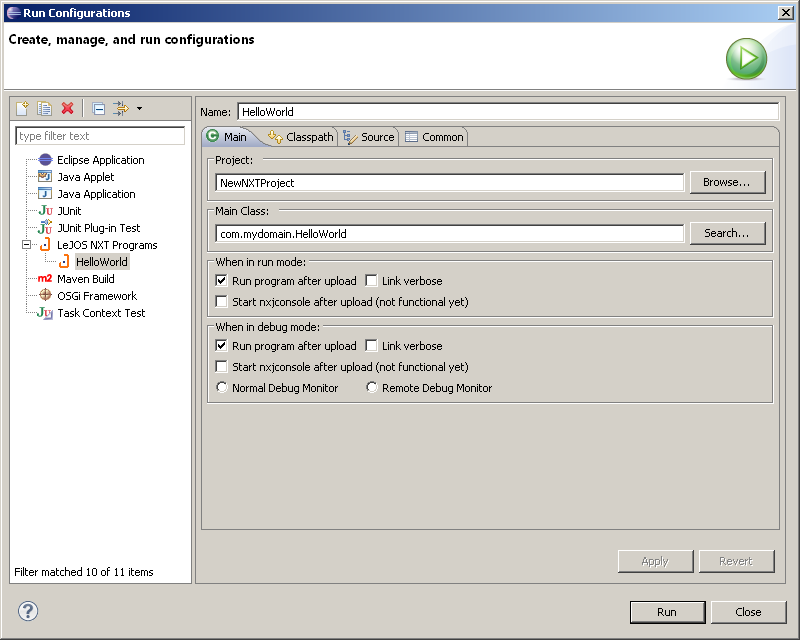
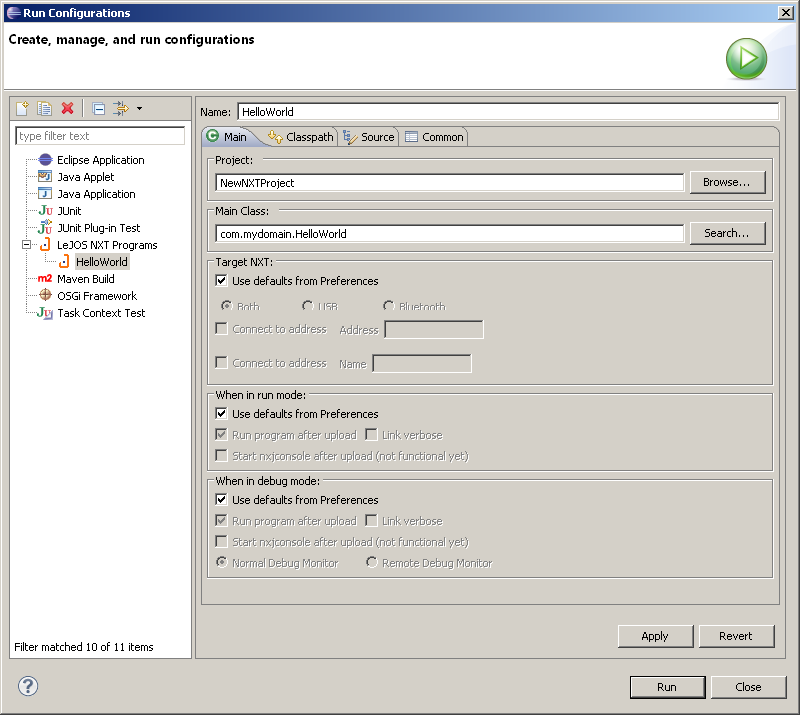
mc

diff --git a/tutorial/release/Preliminaries/UsingEclipse.htm b/tutorial/release/Preliminaries/UsingEclipse.htm
@@ -345,7 +345,7 @@ public class HelloWorld {
 		
 		<p>The following dialog will open. Select the Run Configuration you want to change:</p>
 		
-		<img class="screenshot" src="ecl_runconf02.png" />
+		<img class="screenshot" src="ecl_runconf03.png" />
 		
 		<p>After making the changes, click "Apply" and then "Run" or "Close".
 		After enabling the verbose linking, the output in the console window when uploading
